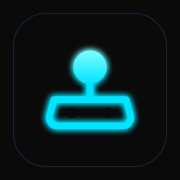
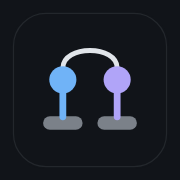
feat(brand): new app mark, "linked players", and a themed title lockup
Two joysticks, one per player, joined by one cable — every game here is
multiplayer. The icon moves from Neon cyan to the Paper theme's dark-mode
colours (slate tile #111419, accent and accent-2 players), since Paper is the
default and an installed icon cannot follow the theme. The manifest's
background and theme colours match the tile.

The portal title becomes a lockup (h1.brand): the same glyph inline, coloured
by theme tokens, so it follows Paper light, Paper dark and Neon. Checked at
390x844 and 1280x800 in all three: one row, centred, no added height.

Fixes the favicon, which no browser had drawn since 2026-08-16: a "--" in the
SVG's header comment made it invalid XML. make-icons.mjs pastes the SVG into
HTML, which forgives that, so the PNGs never showed it. test-pwa now parses
the file as XML. make-icons reads the maskable/iOS backing colour from the
tile instead of hard-coding it. sw.js v37.

Changed region(s): [[0.2222, 0.25, 0.7778, 0.75]]

diff --git a/index.html b/index.html
@@ -44,6 +44,42 @@
         /* Compensate for the trailing letter-spacing so the glyphs sit truly centered. */
         text-indent: 5px;
       }
+      /* The lockup: the app mark (assets/icon.svg's glyph, minus the tile) drawn
+         with live tokens, so it follows every theme the way the icon cannot. */
+      h1.brand {
+        display: flex;
+        flex-wrap: wrap;
+        align-items: center;
+        justify-content: center;
+        gap: 0.3em;
+        text-indent: 0;
+      }
+      /* Letter-spacing is ~0.1em at both sizes; this takes the trailing one back. */
+      .brand > span {
+        margin-right: -0.1em;
+      }
+      .brand .mark {
+        width: 1.33em;
+        height: 1.2em;
+        flex: none;
+        overflow: visible;
+        filter: drop-shadow(0 0 10px var(--glow));
+      }
+      .mark .p1 {
+        fill: var(--accent);
+        stroke: var(--accent);
+      }
+      .mark .p2 {
+        fill: var(--accent-2);
+        stroke: var(--accent-2);
+      }
+      .mark .wire {
+        fill: none;
+        stroke: var(--ink);
+      }
+      .mark .base {
+        fill: var(--ink-3);
+      }
       /*
         One line under the title, doing the job three section headings used to.
         Every game here is multiplayer and every game here can be played alone
@@ -549,7 +585,20 @@
   <body>
     <!-- lib/nav.js: GitHub, Add your game | theme, account; and the tabs. -->
     <nav class="site-nav" data-nav data-page="games"></nav>
-    <h1>Arcade Games</h1>
+    <h1 class="brand">
+      <svg class="mark" viewBox="96 104 320 288" aria-hidden="true">
+        <g transform="translate(0 9)" stroke-linecap="round">
+          <path class="wire" d="M168 176 C168 100 344 100 344 176" stroke-width="16" />
+          <rect class="base" x="104" y="332" width="128" height="44" rx="22" />
+          <rect class="base" x="280" y="332" width="128" height="44" rx="22" />
+          <path class="p1" d="M168 334 V250" stroke-width="22" />
+          <path class="p2" d="M344 334 V250" stroke-width="22" />
+          <circle class="p1" cx="168" cy="214" r="44" stroke-width="0" />
+          <circle class="p2" cx="344" cy="214" r="44" stroke-width="0" />
+        </g>
+      </svg>
+      <span>Arcade Games</span>
+    </h1>
     <p class="tagline">
       Every game is multiplayer. Play the bots on this device, or send an invite
       and play the people. No accounts, no servers, nothing to sign up for.

diff --git a/sw.js b/sw.js
@@ -28,7 +28,7 @@
 // first, a forgotten bump costs an out-of-date *offline* copy — never a stale
 // app for an online player, which is the failure mode that would be hard to
 // notice.
-const VERSION = "arcade-games-v36";
+const VERSION = "arcade-games-v37";
 
 // The shell: everything needed to open any page and start a game with no
 // network at all. The preview gifs are deliberately absent — they are ~2 MB

diff --git a/.agents/skills/pwa/memory/app-mark-direction.md b/.agents/skills/pwa/memory/app-mark-direction.md
@@ -1,0 +1,32 @@
+# The app mark follows Paper, not Neon
+
+Decided 2026-11-14 by Lokesh, choosing a new logo.
+
+**Why:** the default theme has been Paper since 2026-11-13 (`lib/theme.css`).
+Neon (cyan/black/glow) is now an optional theme. `assets/icon.svg` was still the
+cyan joystick from the Neon days, so the installed icon matched a theme most
+people never see. Trap hit on 2026-11-14: I told him "cyan on black matches the
+portal" without reading `lib/theme.css`, and had to correct it. Read the theme
+tokens before claiming what the brand colours are.
+
+## Choices made
+
+- Scope: the app icon (favicon, install PNGs, maskable) **and** a header lockup
+  next to the portal `<h1>`.
+- Concept: "linked players": two joysticks, one wire, for "every game is
+  multiplayer".
+- Icon colours: Paper dark slate tile `oklch(0.19 0.012 260)`, player 1 in the
+  Paper dark `--accent`, player 2 in `--accent-2`, flat with no glow. The icon is
+  a fixed raster, so it cannot follow the theme.
+- Header lockup: draws with theme tokens (`--accent`, `--accent-2`, `--ink`), so
+  it follows Paper and Neon, light and dark, by itself.
+- Process: show an option sheet first (every icon size plus the maskable crop
+  plus the lockup in each theme), then let him pick.
+
+Option sheet (4 variants, A–D): https://claude.ai/artifact/MctQN4fSg3imRQTeYPGooc.
+**He picked A, "Wired twins"** (2026-11-14): two sticks on their own bases, one
+cable arching over from ball to ball. I had recommended C ("A-frame") and he
+chose otherwise, so present options as options. Known weakness, accepted: at
+32 px and below the arc can read as headphones.
+
+Related: [[installability-verdict]], [[caching-split]].

diff --git a/.agents/skills/pwa/SKILL.md b/.agents/skills/pwa/SKILL.md
@@ -43,6 +43,12 @@ it simply will not be there offline, and nothing warns you. Then bump `VERSION`.
   Offline is a *separate* capability and does work in Firefox.
 - **Code is network-first, assets are cache-first.** Do not "optimise" this into
   cache-first everywhere — see [[caching-split]] for what that would break.
+- **`assets/icon.svg` must stay strict XML.** It is the favicon, loaded as a
+  standalone SVG, and one `--` inside its header comment makes the browser drop
+  it. `make-icons.mjs` pastes it into HTML, which forgives that, so the PNGs give
+  no warning. `test-pwa` parses it. The header lockup in `index.html` (`.brand`)
+  is the same glyph drawn with theme tokens, so redraw both together
+  ([[app-mark-direction]]).
 - **Nothing here may break `file://`.** `lib/pwa.js` must stay inert without a
   secure context, and no page may depend on it. Games load and run identically
   with the manifest, the worker and the install button all absent.
@@ -62,3 +68,5 @@ it simply will not be there offline, and nothing warns you. Then bump `VERSION`.
 - `memory/install-prompt-is-chromium-only.md` — why no button can ever appear in
   Firefox or Safari, what each browser actually does, and why offline is fine
   there anyway.
+- `memory/app-mark-direction.md` — the icon follows the Paper theme, not Neon;
+  the "linked players" concept and the choices made for the 2026-11-14 redesign.

diff --git a/docs/index.md b/docs/index.md
@@ -664,6 +664,19 @@ every hand-written check still passes. This was caught only by asking Chrome
 through CDP, which `scripts/test-pwa.mjs` now does on every run. The SVG remains
 the favicon via `<link rel="icon">`.
 
+**The app mark is "linked players"**: two joysticks, one per player, joined by
+one cable (2026-11-14). `assets/icon.svg` holds it in the Paper theme's
+dark-mode colours as fixed hex: slate tile `#111419`, player 1 in the accent,
+player 2 in accent-2. An installed icon cannot follow the theme. The manifest's
+`background_color` and `theme_color` match the tile. The portal's title is a
+lockup (`h1.brand` in `index.html`). It draws the same glyph inline, coloured by
+theme tokens, so it follows Paper light, Paper dark and Neon. Change one and you
+must change the other. The SVG must also stay strict XML, because a browser
+loads the favicon as a standalone file and refuses the whole thing over one
+`--` in a comment. `make-icons.mjs` pastes the SVG into HTML, which forgives
+that, so the PNGs give no warning. From 2026-08-16 to 2026-11-14 no tab showed
+the icon for exactly this reason. `test-pwa` now parses the file.
+
 ## Honest gaps
 
 - Per-game design notes and a decision log are still missing.

diff --git a/STATUS.md b/STATUS.md
@@ -11,6 +11,18 @@ rather than making every session pay for it.*
 act → record → clear the item. This is the single inbox — do not create a
 separate `TODO.md`.*
 
+## New app mark, "linked players" (2026-11-14): branch `logo`, not merged
+
+Lokesh picked option A from https://claude.ai/artifact/MctQN4fSg3imRQTeYPGooc:
+two joysticks joined by a cable, in Paper's dark-mode colours (slate tile #111419).
+assets/icon.svg redrawn; PNGs rebuilt; manifest background/theme #111419;
+portal h1 is now a lockup (`h1.brand`, inline glyph on theme tokens: follows
+Paper light/dark and Neon). make-icons reads the backing colour from the tile.
+Fixed along the way: the SVG favicon had been invalid XML since 2026-08-16
+(`--` in its comment), so no browser drew it. test-pwa now parses it. sw.js v37.
+test-pwa, test-theme, test-portal green; header checked at 390x844 and 1280x800
+in all three themes. Waiting on Lokesh to confirm before merge or push.
+
 ## Web apps run unchanged; CI on Node 24 (2026-11-14) — pushed to main, deployed
 
 14eeec2: an existing site + Python server joins without a rewrite (docs/sdk.md

diff --git a/README.md b/README.md
@@ -217,6 +217,9 @@ To change the icon, edit [`assets/icon.svg`](assets/icon.svg) and run:
 node scripts/make-icons.mjs
 ```
 
+The portal header draws the same glyph inline (`index.html`, `h1.brand`) using
+the theme's colours, so redraw it there too.
+
 ## Preview GIFs
 
 Portal preview GIFs are generated headlessly via Playwright:
